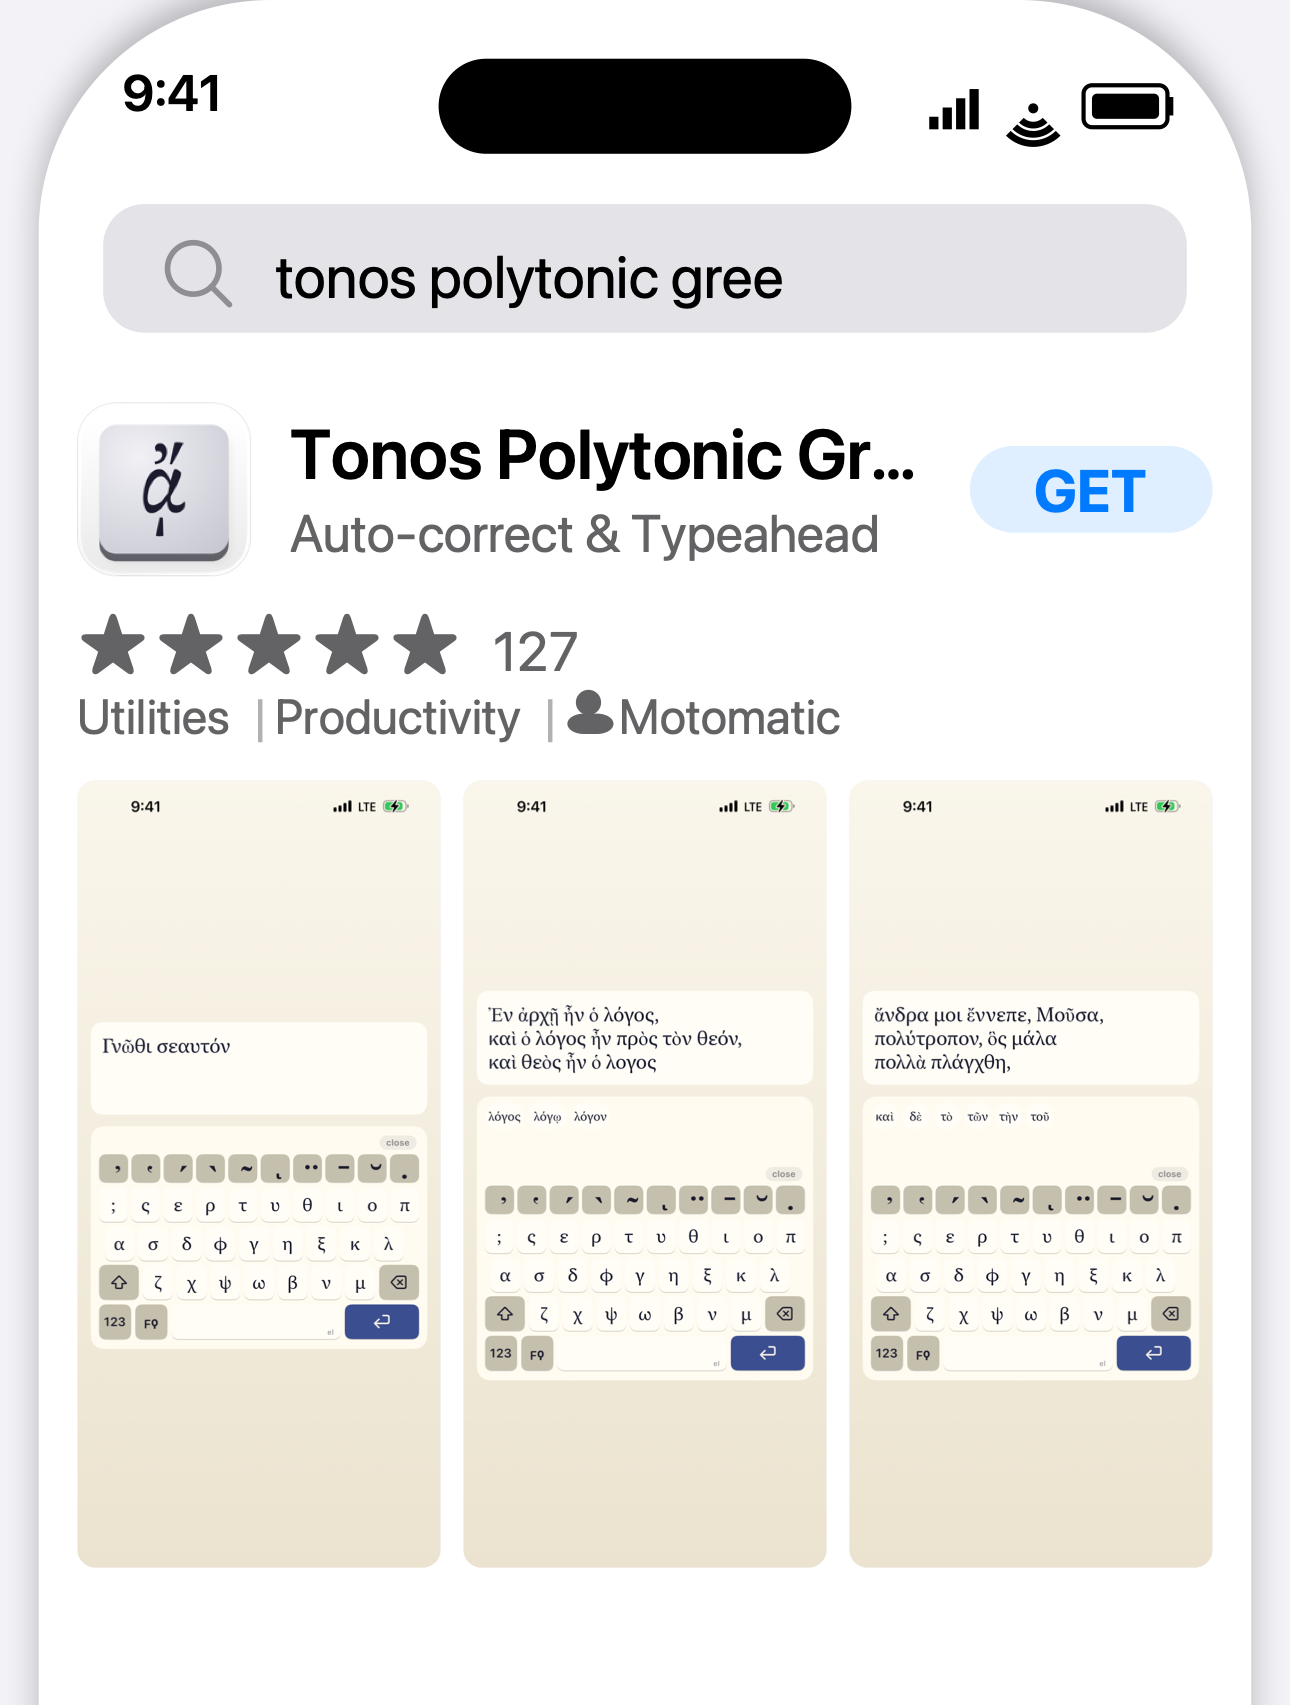
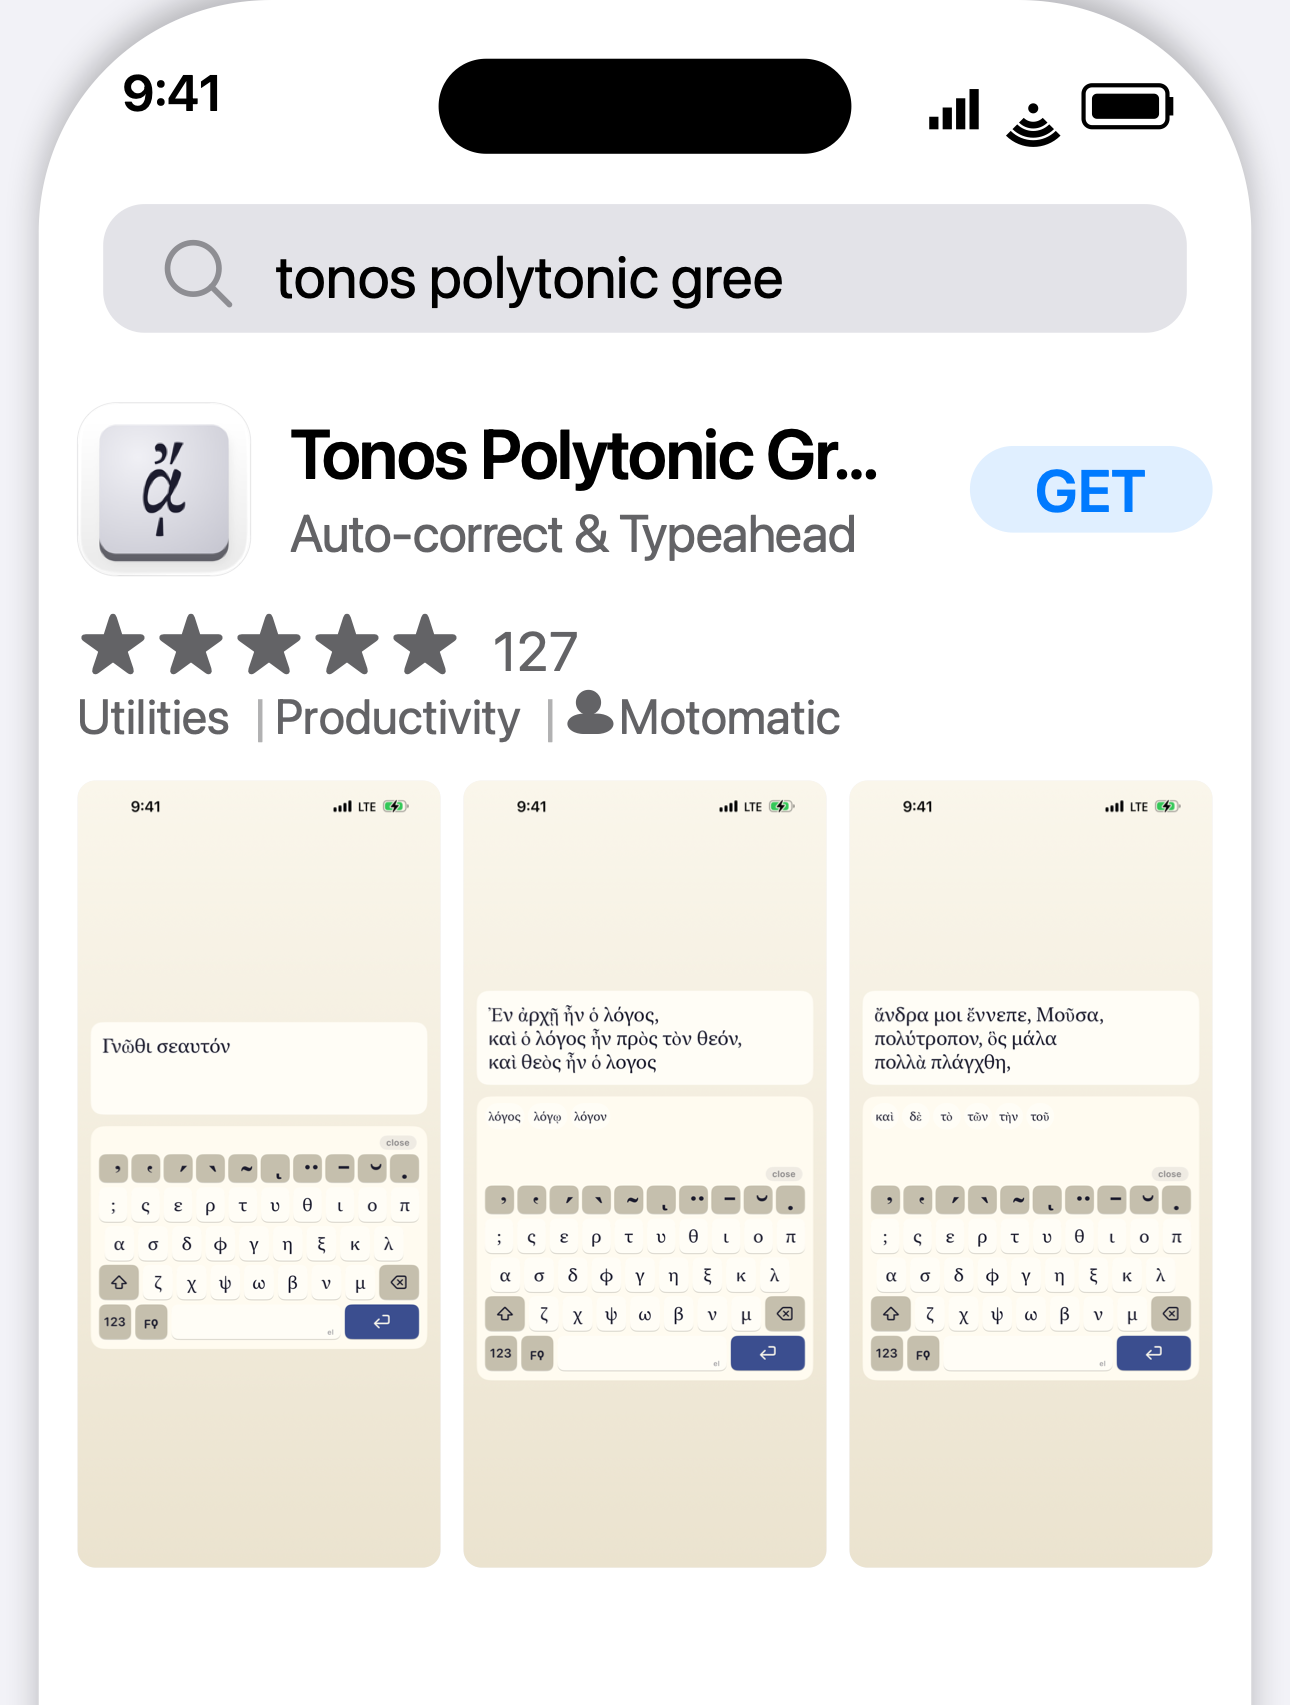
v3.1.1: tighter search-row name + semibold GET, light-only showcase
Renderer:
- GET pill uses SF Pro Semibold (App Store's actual weight), not Bold.
- Name and subtitle pick up subtle negative tracking proportional to font
  size, matching SF Pro Text optical tightening that iOS applies at body
  sizes when displayed inside the search row.

Showcase: README image is light-only (drop the dark column), with an
updated note pointing at `appearances: [dark]` for users who want the
App Store dark theme. Renderer keeps dark mode capability intact.

Changed region(s): [[0.2481, 0.2487, 0.6822, 0.3419], [0.8062, 0.2798, 0.8372, 0.3109]]

diff --git a/Sources/StorescreensCore/Render/SearchPreview/SearchPreviewRenderer.swift b/Sources/StorescreensCore/Render/SearchPreview/SearchPreviewRenderer.swift
@@ -425,7 +425,8 @@ package struct SearchPreviewRenderer {
 
         // Action button (right side, vertically centered against the icon).
         let actionLabel = Self.actionLabel(input.action, price: input.priceLabel)
-        let actionFont = systemFont(size: iconSize * 0.34, weight: .bold)
+        // App Store action pill ("GET") uses SF Pro Semibold, not Bold.
+        let actionFont = systemFont(size: iconSize * 0.34, weight: .semibold)
         let actionTextWidth = measureText(actionLabel, font: actionFont)
         let actionPaddingX = iconSize * 0.32
         let actionWidth = max(iconSize * 1.4, actionTextWidth + 2 * actionPaddingX)
@@ -462,11 +463,17 @@ package struct SearchPreviewRenderer {
         let subtitleLineHeight = subtitleAscent + CGFloat(CTFontGetDescent(subtitleFont))
 
         let truncatedName = truncateToFit(input.name, font: nameFont, maxWidth: nameBandWidth)
+        // iOS App Store row uses subtle negative tracking on the name +
+        // subtitle to mimic SF Pro Text optical proportions at body sizes.
+        let nameTracking = -CGFloat(CTFontGetSize(nameFont)) * 0.018
+        let subtitleTracking = -CGFloat(CTFontGetSize(subtitleFont)) * 0.012
+
         drawText(
             into: ctx, text: truncatedName,
             font: nameFont, color: theme.primaryText,
             topLeft: CGPoint(x: textLeftX, y: iconRect.minY + iconSize * 0.05),
-            maxWidth: nameBandWidth
+            maxWidth: nameBandWidth,
+            tracking: nameTracking
         )
 
         let truncatedSubtitle = truncateToFit(input.subtitle, font: subtitleFont, maxWidth: nameBandWidth)
@@ -478,7 +485,8 @@ package struct SearchPreviewRenderer {
                     x: textLeftX,
                     y: iconRect.minY + iconSize * 0.05 + nameLineHeight * 1.10
                 ),
-                maxWidth: nameBandWidth
+                maxWidth: nameBandWidth,
+                tracking: subtitleTracking
             )
         }
 
@@ -734,13 +742,18 @@ package struct SearchPreviewRenderer {
         return NSFont.systemFont(ofSize: size, weight: weight) as CTFont
     }
 
-    private func attributedString(_ text: String, font: CTFont, color: NSColor) -> NSAttributedString {
+    private func attributedString(
+        _ text: String,
+        font: CTFont,
+        color: NSColor,
+        tracking: CGFloat = 0
+    ) -> NSAttributedString {
         return NSAttributedString(
             string: text,
             attributes: [
                 .font: font,
                 .foregroundColor: color,
-                .kern: 0.0,
+                .kern: tracking,
             ]
         )
     }
@@ -768,16 +781,21 @@ package struct SearchPreviewRenderer {
     /// The context is assumed to be flipped (translateBy + scaleBy(1,-1));
     /// we wrap each draw call in a local un-flip so glyphs land right-side-
     /// up regardless of the outer transform.
+    ///
+    /// `tracking` adjusts inter-glyph spacing. iOS App Store rows use a slight
+    /// negative tracking on the name + subtitle (display-style optical
+    /// adjustment). Default 0 leaves the system kerning unchanged.
     private func drawText(
         into ctx: CGContext,
         text: String,
         font: CTFont,
         color: NSColor,
         topLeft: CGPoint,
-        maxWidth: CGFloat? = nil
+        maxWidth: CGFloat? = nil,
+        tracking: CGFloat = 0
     ) {
         guard !text.isEmpty else { return }
-        let attr = attributedString(text, font: font, color: color)
+        let attr = attributedString(text, font: font, color: color, tracking: tracking)
         let line = CTLineCreateWithAttributedString(attr)
         let ascent = CGFloat(CTFontGetAscent(font))
 

diff --git a/README.md b/README.md
@@ -759,7 +759,7 @@ test_class: ScreenshotTests
 # search_preview:
 #   enabled: true
 #   output_dir: ./storescreens-search-preview
-#   appearances: [light, dark]
+#   appearances: [light]
 #   developer: "Acme Co"
 #   rating: 4.8
 #   reviews: "1.2K"
@@ -1125,18 +1125,11 @@ When the current render's locale matches a key, that entry replaces the slide's 
 
 ## App Store search preview
 
-`storescreens search-preview` renders a faithful iPhone App Store search-result row — icon (squircle), name, subtitle, stars + review count, GET button, "category | category | developer" meta row, and a 3-up screenshot strip — wrapped in an iPhone bezel + status bar + Dynamic Island. Light and dark.
+`storescreens search-preview` renders a faithful iPhone App Store search-result row — icon (squircle), name, subtitle, stars + review count, GET button, "category | category | developer" meta row, and a 3-up screenshot strip — wrapped in an iPhone bezel + status bar + Dynamic Island. SF Pro throughout, sized so the row matches what App Store renders at @3x.
 
-<table>
-  <tr>
-    <td align="center"><img src="assets/search-preview-light.png" width="320" alt="Tonos light search preview"></td>
-    <td align="center"><img src="assets/search-preview-dark.png" width="320" alt="Tonos dark search preview"></td>
-  </tr>
-  <tr>
-    <td align="center">Light</td>
-    <td align="center">Dark</td>
-  </tr>
-</table>
+<p align="center">
+  <img src="assets/search-preview-light.png" width="360" alt="Tonos App Store search preview">
+</p>
 
 Honest preview of how the app will look when surfaced in App Store search, before you ship. Sources every input from config and metadata you already have — no new copy to maintain.
 
@@ -1144,7 +1137,7 @@ Honest preview of how the app will look when surfaced in App Store search, befor
 search_preview:
   enabled: true
   output_dir: ./storescreens-search-preview
-  appearances: [light, dark]
+  appearances: [light]
   developer: "Acme Co"
   rating: 4.8
   reviews: "1.2K"
@@ -1154,10 +1147,10 @@ search_preview:
   # screenshots falls back to the first 3 entries in screenshots: (or the manifest)
 ```
 
-With `enabled: true`, the preview runs automatically after `storescreens capture`. Skip with `--no-search-preview`. Standalone usage:
+With `enabled: true`, the preview runs automatically after `storescreens capture`. Skip with `--no-search-preview`. Add `dark` to `appearances` for an App Store dark-mode render. Standalone usage:
 
 ```bash
-storescreens search-preview --appearance light --appearance dark --locale en-US
+storescreens search-preview --appearance light --locale en-US
 ```
 
 ## Device bezels
